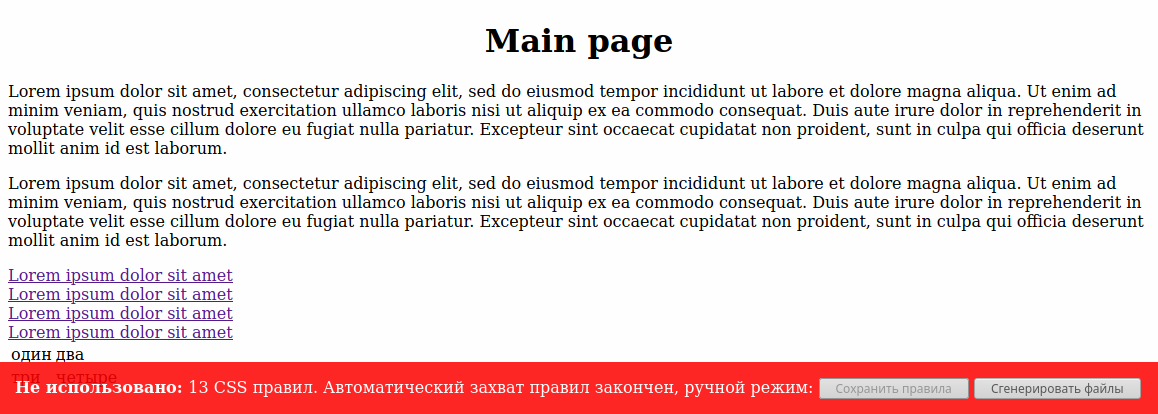
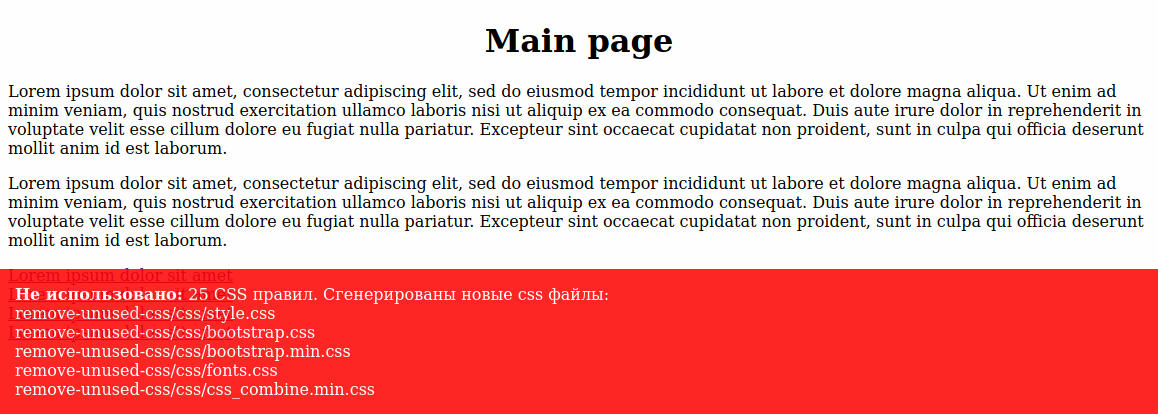
Stable update

Changed region(s): [[0.0, 0.6377, 1.0, 0.9855]]

diff --git a/test/about.html b/test/about.html
@@ -15,15 +15,5 @@
 		<a href="/about.html">Lorem ipsum dolor sit amet</a><br />
 		<a href="/contacts.html">Lorem ipsum dolor sit amet</a><br />
 		<a href="/slider.html">Lorem ipsum dolor sit amet</a><br />
-		
-		<table>
-		  <tr>
-			<td>один</td> <td>два</td>
-		  </tr>
-		  <tr>
-			<td>три</td>  <td>четыре</td>
-		  </tr>
-		</table>
-
 	</body>
 </html>

diff --git a/test/contacts.html b/test/contacts.html
@@ -16,14 +16,5 @@
 		<a href="/contacts.html">Lorem ipsum dolor sit amet</a><br />
 		<a href="/slider.html">Lorem ipsum dolor sit amet</a><br />
 		
-		<table>
-		  <tr>
-			<td>один</td> <td>два</td>
-		  </tr>
-		  <tr>
-			<td>три</td>  <td>четыре</td>
-		  </tr>
-		</table>
-
 	</body>
 </html>

diff --git a/test/index.html b/test/index.html
@@ -16,14 +16,6 @@
 		<a href="/contacts.html">Lorem ipsum dolor sit amet</a><br />
 		<a href="/slider.html">Lorem ipsum dolor sit amet</a><br />
 		
-		<table>
-		  <tr>
-			<td>один</td> <td>два</td>
-		  </tr>
-		  <tr>
-			<td>три</td>  <td>четыре</td>
-		  </tr>
-		</table>
 
 	</body>
 </html>

diff --git a/test/slider.html b/test/slider.html
@@ -16,14 +16,5 @@
 		<a href="/contacts.html">Lorem ipsum dolor sit amet</a><br />
 		<a href="/slider.html">Lorem ipsum dolor sit amet</a><br />
 		
-		<table>
-		  <tr>
-			<td>один</td> <td>два</td>
-		  </tr>
-		  <tr>
-			<td>три</td>  <td>четыре</td>
-		  </tr>
-		</table>
-
 	</body>
 </html>
